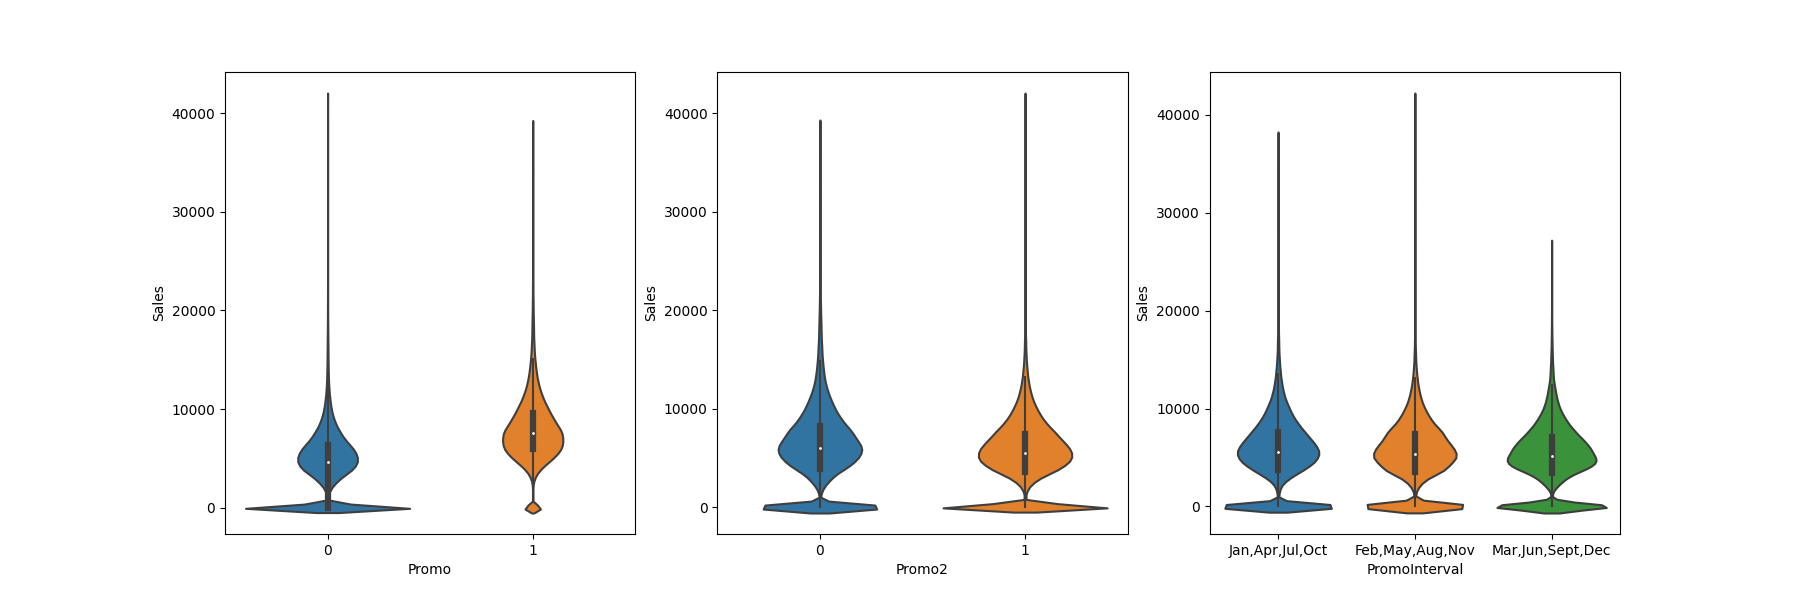
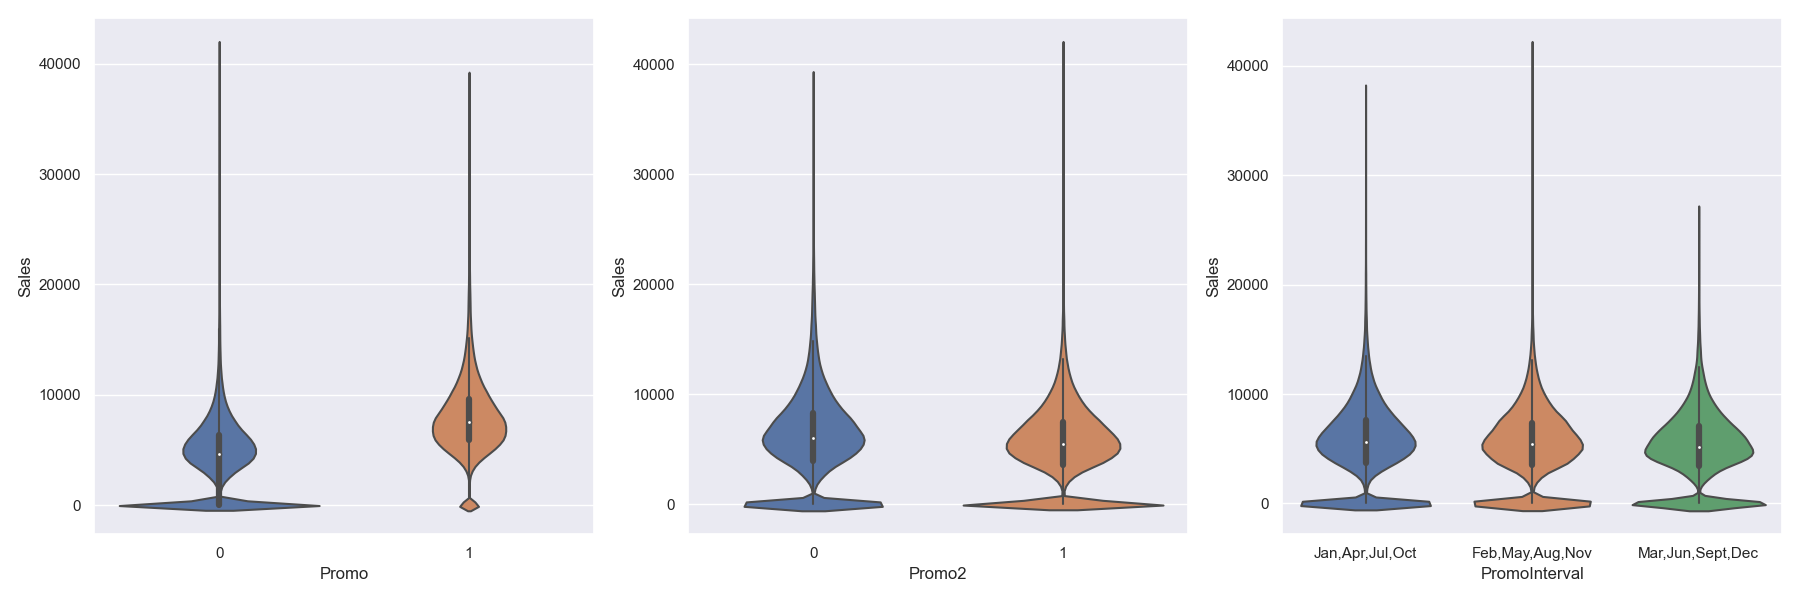
[EDA finally updated]

diff --git a/Rossman/dataset_visialisation.py b/Rossman/dataset_visialisation.py
@@ -44,39 +44,66 @@ if __name__ == '__main__':
 
     store_1 = train_data.loc[(train_data["Store"] == 1) & (train_data['Sales'] > 0), ['Date', "Sales"]]
     store_2 = train_data.loc[(train_data["Store"] == 2) & (train_data['Sales'] > 0), ['Date', "Sales"]]
-    f = plt.figure(figsize=(18, 10))
-    ax1 = f.add_subplot(211)
-    ax1.plot(store_1['Date'], store_1['Sales'], '-')
-    ax1.set_xlabel('Time')
-    ax1.set_ylabel('Sales')
-    ax1.xaxis.set_major_locator(ticker.AutoLocator())
-    ax1.xaxis.set_minor_locator(ticker.AutoMinorLocator())
-    # ax1.text(0.0, 0.1, "AutoLocator()", fontsize=14, transform=ax1.transAxes)
-
-    ax1.set_title('Store 1 Sales Distribution')
-
-    ax2 = f.add_subplot(212)
-    ax2.plot(store_2['Date'], store_2['Sales'], '-')
-    ax2.set_xlabel('Time')
-    ax2.set_ylabel('Sales')
-    ax2.xaxis.set_major_locator(ticker.AutoLocator())
-    ax2.xaxis.set_minor_locator(ticker.AutoMinorLocator())
-    ax2.set_title('Store 2 Sales Distribution')
-    plt.savefig('Store Sales Distribution')
+    # f = plt.figure(figsize=(18, 10))
+    # ax1 = f.add_subplot(211)
+    # ax1.plot(store_1['Date'], store_1['Sales'], '-')
+    # ax1.set_xlabel('Time')
+    # ax1.set_ylabel('Sales')
+    # ax1.xaxis.set_major_locator(ticker.AutoLocator())
+    # ax1.xaxis.set_minor_locator(ticker.AutoMinorLocator())
+    # # ax1.text(0.0, 0.1, "AutoLocator()", fontsize=14, transform=ax1.transAxes)
+    #
+    # ax1.set_title('Store 1 Sales Distribution')
+    #
+    # ax2 = f.add_subplot(212)
+    # ax2.plot(store_2['Date'], store_2['Sales'], '-')
+    # ax2.set_xlabel('Time')
+    # ax2.set_ylabel('Sales')
+    # ax2.xaxis.set_major_locator(ticker.AutoLocator())
+    # ax2.xaxis.set_minor_locator(ticker.AutoMinorLocator())
+    # ax2.set_title('Store 2 Sales Distribution')
+    # plt.savefig('Store Sales Distribution')
 
     import seaborn as sns
     import matplotlib.pyplot as plt
-
+    sns.set()
     # check distribution of sales in train set
+    # fig = plt.figure(figsize=(12, 5))
+    # ax1 = fig.add_subplot(121)
+    # ax2 = fig.add_subplot(122)
+    # sales_view = train_data[train_data['Sales'] > 0]['Sales']
+    # g1 = sns.histplot(sales_view, label='skewness:{:.2f}'.format(train_data['Sales'].skew()), ax=ax1)
+    # g1.legend()
+    # g1.set(xlabel='Sales', ylabel='Density', title='Sales Distribution')
+    # g2 = sns.histplot(np.log1p(sales_view), label='skewness:{:.2f}'.format(np.log1p(train_data['Sales']).skew()), ax=ax2)
+    # g2.legend()
+    # g2.set(xlabel='log(Sales+1)', ylabel='Density', title='log(Sales+1) Distribution')
+    # plt.savefig('sales Distribution')
+    # print('sales saved')
+    #
+    # fig = plt.figure(figsize=(12, 5))
+    # ax1 = fig.add_subplot(121)
+    # ax2 = fig.add_subplot(122)
+    # sales_view = train_data[train_data['Customers'] > 0]['Customers']
+    # g1 = sns.histplot(sales_view, label='skewness:{:.2f}'.format(train_data['Customers'].skew()), ax=ax1)
+    # g1.legend()
+    # g1.set(xlabel='Customer', ylabel='Density', title='Customer Distribution')
+    # g2 = sns.histplot(np.log1p(sales_view), label='skewness:{:.2f}'.format(np.log1p(train_data['Sales']).skew()), ax=ax2)
+    # g2.legend()
+    # g2.set(xlabel='log(Customers+1)', ylabel='Density', title='log(Customers+1) Distribution')
+    # plt.savefig('customers Distribution')
+    # print('customers saved')
+
+
     fig = plt.figure(figsize=(12, 5))
     ax1 = fig.add_subplot(121)
     ax2 = fig.add_subplot(122)
-    sales_view = train_data[train_data['Sales'] > 0]['Sales']
-    g1 = sns.histplot(sales_view, label='skewness:{:.2f}'.format(train_data['Sales'].skew()), ax=ax1)
+    sales_view = store_data[store_data['Customers'] > 0]['Customers']
+    g1 = sns.histplot(sales_view, label='skewness:{:.2f}'.format(train_data['Customers'].skew()), ax=ax1)
     g1.legend()
-    g1.set(xlabel='Sales', ylabel='Density', title='Sales Distribution')
+    g1.set(xlabel='Customer', ylabel='Density', title='Customer Distribution')
     g2 = sns.histplot(np.log1p(sales_view), label='skewness:{:.2f}'.format(np.log1p(train_data['Sales']).skew()), ax=ax2)
     g2.legend()
-    g2.set(xlabel='log(Sales+1)', ylabel='Density', title='log(Sales+1) Distribution')
-    plt.savefig('train data Distribution')
-
+    g2.set(xlabel='log(Customers+1)', ylabel='Density', title='log(Customers+1) Distribution')
+    plt.savefig('customers Distribution')
+    print('customers saved')

diff --git a/Rossman/eda.py b/Rossman/eda.py
@@ -3,6 +3,7 @@ import numpy as np
 import matplotlib
 import matplotlib.pyplot as plt
 import seaborn as sns
+sns.set()
 import missingno
 import os
 from explore_data_analysis import eda,time_series_plot
@@ -28,13 +29,13 @@ train_data['SchoolHoliday'] = train_data['SchoolHoliday'].astype('category')
 # set datetime data
 train_data['Date'] = pd.to_datetime(train_data['Date'])
 
-from pylab import rcParams
-import statsmodels.api as sm
-
-rcParams['figure.figsize'] = 11, 9
-decomposition = sm.tsa.seasonal_decompose(train_data['Sales'], model='Additive')
-fig = decomposition.plot()
-plt.show()
+# from pylab import rcParams
+# import statsmodels.api as sm
+#
+# rcParams['figure.figsize'] = 11, 9
+# decomposition = sm.tsa.seasonal_decompose(train_data['Sales'], model='Additive')
+# fig = decomposition.plot()
+# plt.show()
 # plt.figure(figsize=(12, 8))
 # plt.subplot(1,2,1)
 # sns.catplot(x='Open', kind="count", data=train_data)
@@ -42,8 +43,7 @@ plt.show()
 # sns.catplot(x='SchoolHoliday', kind="count", data=train_data)
 # plt.show()
 
-import seaborn as sns
-import matplotlib.pyplot as plt
+
 
 # plt.figure(figsize=(18,6))
 # plt.subplot(1,3,1)
@@ -52,8 +52,29 @@ import matplotlib.pyplot as plt
 # sns.countplot(x="SchoolHoliday", hue="Open", data=train_data)
 # plt.subplot(1,3,3)
 # sns.countplot(x="DayOfWeek", hue="Open", data=train_data)
-# plt.savefig('Open_cat')
-
+# plt.tight_layout()
+# plt.savefig('cat_open')
+#
+#
+# plt.figure(figsize=(16,8))
+# plt.subplot(1,2,1)
+# sns.countplot(x="Assortment", data=train_data)
+# plt.subplot(1,2,2)
+# sns.countplot(x="StoreType", data=train_data)
+# plt.tight_layout()
+# plt.savefig('cat_store')
+#
+# plt.figure(figsize=(18,6))
+# plt.subplot(1,3,1)
+# sns.countplot(x="Promo", data=train_data)
+# plt.subplot(1,3,2)
+# sns.countplot(x="Promo2", data=train_data)
+# plt.subplot(1,3,3)
+# sns.countplot(x="PromoInterval", data=train_data)
+# plt.tight_layout()
+# plt.savefig('cat_promo')
+#
+#
 # plt.figure(figsize=(18,6))
 # plt.subplot(1,3,1)
 # sns.violinplot(x="Promo", y='Sales', data=train_data)
@@ -61,11 +82,28 @@ import matplotlib.pyplot as plt
 # sns.violinplot(x="Promo2", y='Sales', data=train_data)
 # plt.subplot(1,3,3)
 # sns.violinplot(x="PromoInterval", y='Sales', data=train_data)
+# plt.tight_layout()
 # plt.savefig('dis_promo')
 
+train_data = train_data[train_data['Store']=='1']
+plt.figure(figsize=(18,6))
+plt.subplot(1,3,1)
+sns.violinplot(x="StateHoliday", y='Sales', data=train_data)
+plt.subplot(1,3,2)
+sns.violinplot(x="SchoolHoliday", y='Sales', data=train_data)
+plt.subplot(1,3,3)
+sns.violinplot(x="DayOfWeek", y='Sales', data=train_data)
+plt.tight_layout()
+plt.savefig('dis_open')
 
-
-
+#
+# plt.figure(figsize=(16,8))
+# plt.subplot(1,2,1)
+# sns.violinplot(x="Assortment", y='Sales', data=train_data)
+# plt.subplot(1,2,2)
+# sns.violinplot(x="StoreType", y='Sales', data=train_data)
+# plt.tight_layout()
+# plt.savefig('dis_store')
 
 # plt.figure(figsize=(12,8))
 # plt.subplot(2,2,1)
